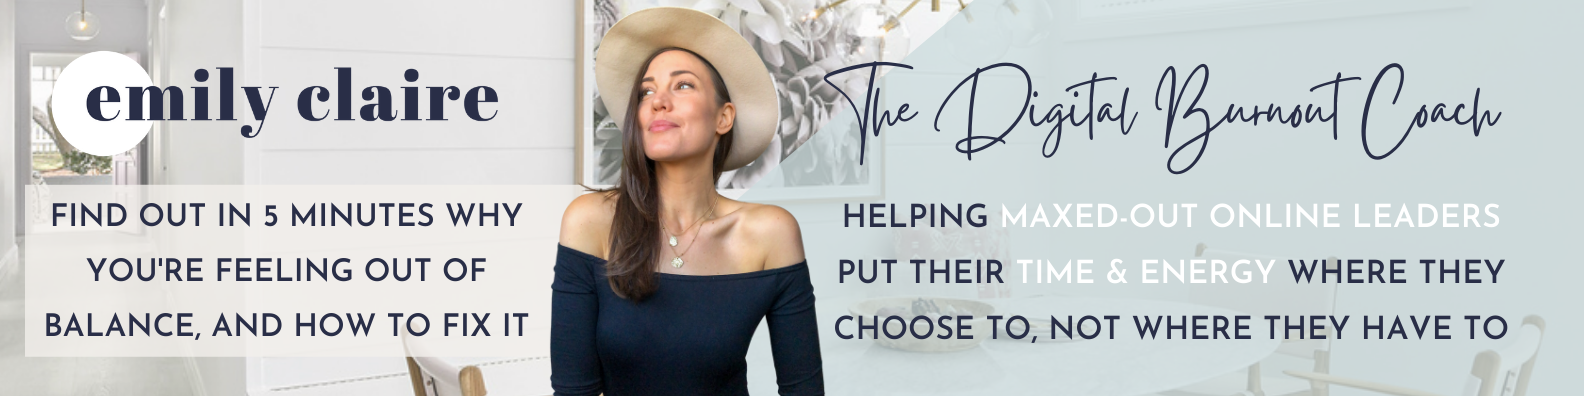
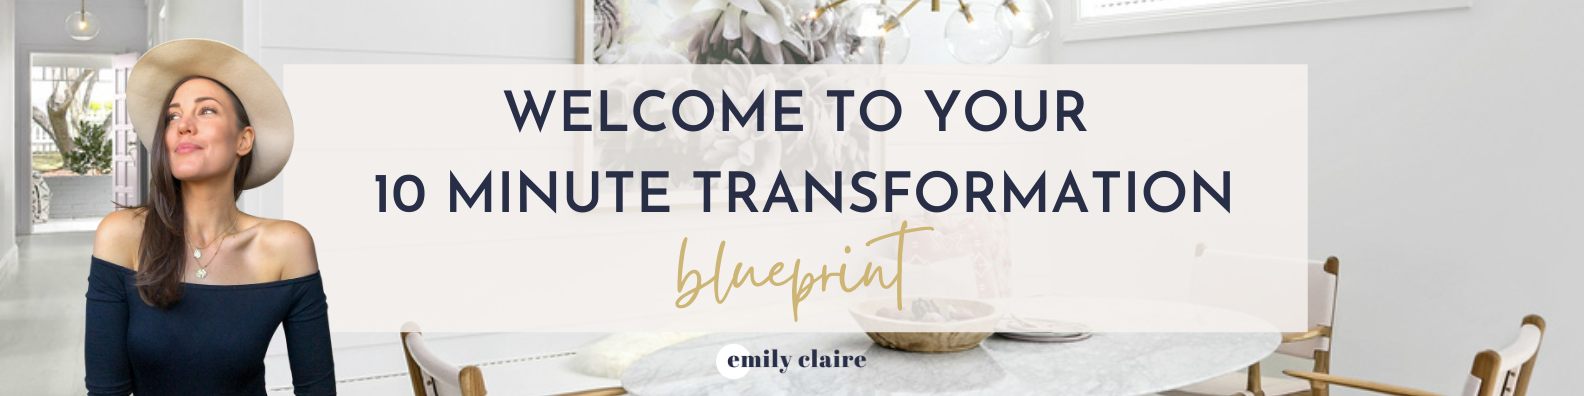
header/string
Changed 5 to 10 mins the title and the string and changed the header

diff --git a/src/strings.ts b/src/strings.ts
@@ -1,10 +1,10 @@
 
 const strings = {
-    welcome: 'WELCOME TO YOUR 5 MINUTE SELF-ASSESSMENT',
+    welcome: 'WELCOME TO YOUR 10 MINUTE SELF-ASSESSMENT',
     appTitle: 'Burnout Coach',
     watchFirst: 'Watch this first BEFORE you complete the assessment',
     propagandaPart1:
-        'Take my free 5 minute self-assessment to see the reasons you\'re feeling out of balance, what to focus on and how to fix it. When you submit your answers at the end, your Wheel will display and your answers will be emailed to you.',
+        'Take my free 10 minute self-assessment to see the reasons you\'re feeling out of balance, what to focus on and how to fix it. When you submit your answers at the end, your Wheel will display and your answers will be emailed to you.',
     propagandaPart2:
         'Please know that only I have access to this information so the more honest and raw you can be, the better conversation we can have should you choose to book a Progression Session with me.',
     formTitle: 'Fill out all the segments, and press Show my results at the end to create your Wheel of Balance',

diff --git a/src/screens/ResultsScreen.tsx b/src/screens/ResultsScreen.tsx
@@ -1,6 +1,6 @@
 import React, { useCallback } from 'react';
 import PropTypes from 'prop-types';
-import { Box, makeStyles } from '@material-ui/core';
+import { Box, makeStyles, Typography, } from '@material-ui/core';
 import { Header } from '../components';
 import { Answers } from '../types';
 import strings from '../strings';
